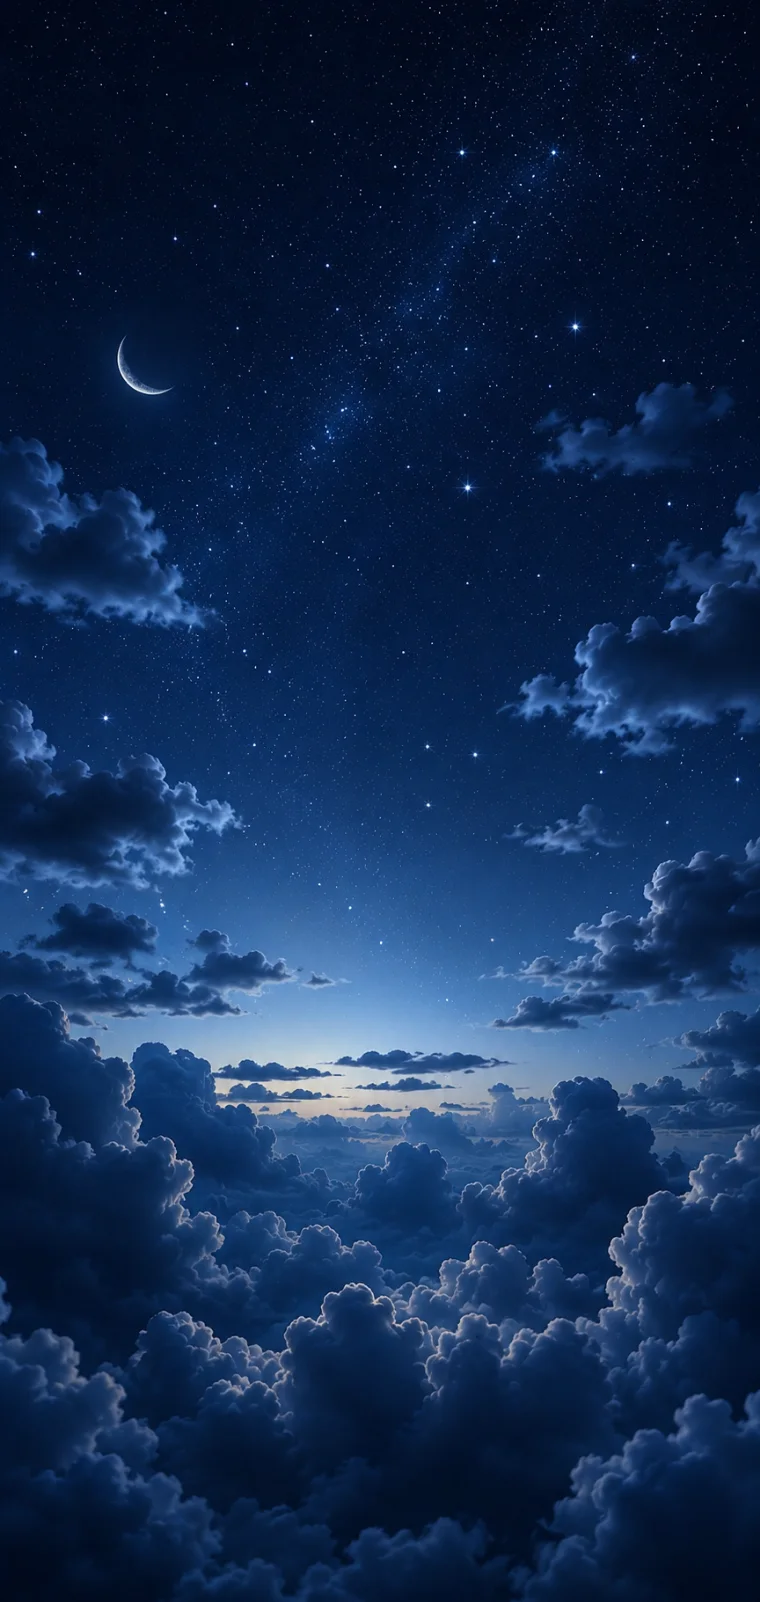
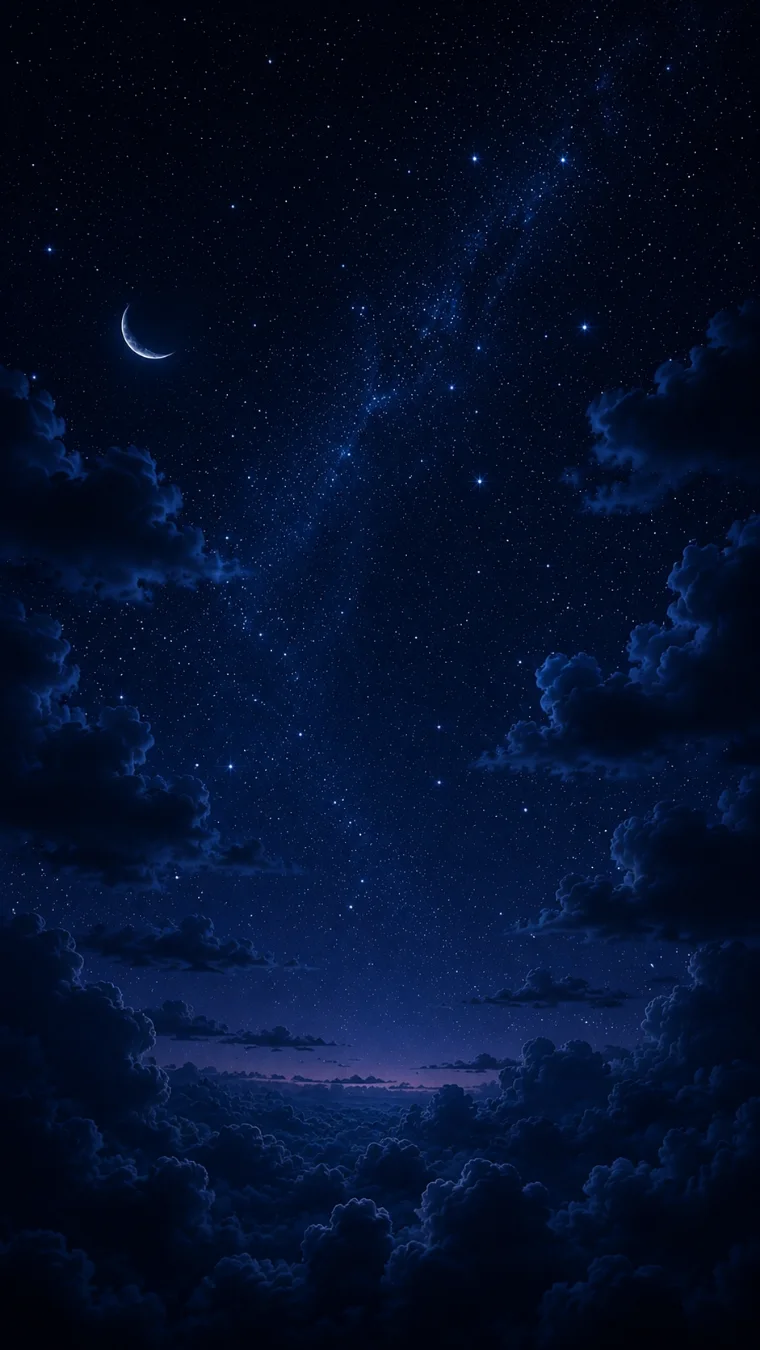
Céu em 8 faixas: fecha os buracos de 5 a 7 horas sem troca
Com 5 faixas sobravam saltos grandes em que o céu não mudava nada: o dia
segurava 7 horas seguidas, madrugada e noite 5 cada. As três artes novas
entram exatamente nesses buracos.

  00–04  madrugada       noite profunda, lua crescente, Via Láctea  (nova)
  04–06  pré-amanhecer   lua + o primeiro clarão no horizonte
  06–08  amanhecer       sol despontando, pastel                     (nova)
  08–11  manhã           lavanda e pêssego
  11–17  dia             céu azul aberto
  17–19  entardecer      pôr do sol dourado
  19–21  anoitecer       vermelho e roxo dramático, estrelas         (nova)
  21–24  noite           crepúsculo roxo

A arte que era `madrugada` virou `pre-amanhecer`: ela tem a réstia de luz
no horizonte, que é pré-amanhecer e não noite fechada.

A escala da ARTE passa a ser independente da do gradiente V1 (`periodFor`,
5 períodos), que continua intocado. E `darkSky` passa a seguir a FAIXA DA
ARTE, não o relógio: às 7h o gradiente diz "manhã" enquanto o amanhecer já
está claro, e às 20h diz "noite" enquanto o anoitecer é escuro — era a
arte e o vidro dos cartões discordando.

Verificado hora a hora nas 16 bordas e miolos: cada faixa serve a arte
certa e o vidro certo.

Claude-Session: https://claude.ai/code/session_01BJM25tJAqQNE1gvk3FSNXP

diff --git a/src/components/app-mobile-shell.tsx b/src/components/app-mobile-shell.tsx
@@ -31,6 +31,9 @@ import skyDia from "@/assets/sky/dia.webp";
 import skyEntardecer from "@/assets/sky/entardecer.webp";
 import skyNoite from "@/assets/sky/noite.webp";
 import skyMadrugada from "@/assets/sky/madrugada.webp";
+import skyPreAmanhecer from "@/assets/sky/pre-amanhecer.webp";
+import skyAmanhecer from "@/assets/sky/amanhecer.webp";
+import skyAnoitecer from "@/assets/sky/anoitecer.webp";
 import { babyForWeek, retaFinalMensagem } from "@/lib/gestacao";
 import { hapticTap } from "@/lib/haptics";
 
@@ -597,14 +600,33 @@ function BabyOrb() {
 /** Tema do céu da home. V2 = arte por período; V1 = o gradiente original. */
 export type SkyThemeId = "v2" | "v1";
 
-/** Arte de fundo de cada momento do dia (tema V2). */
-const SKY_ART: Record<ReturnType<typeof periodFor>, string> = {
-  madrugada: skyMadrugada,
-  manha: skyManha,
-  dia: skyDia,
-  entardecer: skyEntardecer,
-  noite: skyNoite,
-};
+/**
+ * Arte de fundo por FAIXA DE HORA (tema V2).
+ *
+ * Escala própria, mais fina que a do gradiente V1 (`periodFor`, 5 períodos):
+ * com 5 faixas sobravam saltos de 5 a 7 horas em que o céu não mudava nada. As
+ * oito faixas cobrem as transições que a paciente realmente percebe — o
+ * primeiro clarão, o sol nascendo, o céu virando depois do pôr do sol.
+ *
+ * `dark` acompanha a ARTE, não o relógio: o amanhecer é claro apesar de cedo, e
+ * o anoitecer é escuro apesar de ainda não ser noite fechada. É esse campo que
+ * decide se os cartões usam vidro claro ou escuro.
+ */
+const SKY_SLOTS: { from: number; to: number; nome: string; src: string; dark: boolean }[] = [
+  { from: 0, to: 4, nome: "madrugada", src: skyMadrugada, dark: true },
+  { from: 4, to: 6, nome: "pré-amanhecer", src: skyPreAmanhecer, dark: true },
+  { from: 6, to: 8, nome: "amanhecer", src: skyAmanhecer, dark: false },
+  { from: 8, to: 11, nome: "manhã", src: skyManha, dark: false },
+  { from: 11, to: 17, nome: "dia", src: skyDia, dark: false },
+  { from: 17, to: 19, nome: "entardecer", src: skyEntardecer, dark: false },
+  { from: 19, to: 21, nome: "anoitecer", src: skyAnoitecer, dark: true },
+  { from: 21, to: 24, nome: "noite", src: skyNoite, dark: true },
+];
+
+function skySlotFor(hour: number) {
+  const h = Math.max(0, Math.min(23, hour));
+  return SKY_SLOTS.find((s) => h >= s.from && h < s.to) ?? SKY_SLOTS[SKY_SLOTS.length - 1];
+}
 
 export function AppHomeScreen({
   firstName,
@@ -663,15 +685,19 @@ export function AppHomeScreen({
   // Céu escuro (noite/madrugada) pede texto claro. O entardecer TERMINA claro
   // na base do card (oklch ~0.8) — texto branco ali ficava ilegível, então ele
   // conta como céu claro para o texto (auditoria de contraste).
-  const darkSky = period === "madrugada" || period === "noite";
+  const artTheme = skyTheme !== "v1";
+  // Com a arte quem manda no claro/escuro é a FAIXA da arte (8 faixas), não o
+  // período do gradiente (5): às 7h o gradiente ainda diz "manhã" enquanto o
+  // amanhecer já está claro, e às 20h diz "noite" enquanto o anoitecer é
+  // escuro. Sem arte, vale o período do gradiente.
+  const slot = skySlotFor(h);
+  const darkSky = artTheme ? slot.dark : period === "madrugada" || period === "noite";
 
   // Cores de texto adaptadas ao céu do momento
   const heroText = darkSky ? "text-white/95" : "text-foreground";
   const heroMuted = darkSky ? "text-white/65" : "text-muted-foreground";
   // Roxo no céu claro (o rosé da marca sumia sobre o pêssego do entardecer).
   const heroLabel = darkSky ? "text-white/60" : "text-violet-600";
-
-  const artTheme = skyTheme !== "v1";
 
   /* Vidro dos cartões. O conceito é um céu claro com cartões brancos; à noite
      o céu escurece e o mesmo branco cegaria — então o vidro inverte e o texto
@@ -722,7 +748,7 @@ export function AppHomeScreen({
           <div
             aria-hidden
             className="dc-sky-breathe pointer-events-none absolute inset-0 bg-cover bg-center"
-            style={{ backgroundImage: `url(${SKY_ART[period]})` }}
+            style={{ backgroundImage: `url(${slot.src})` }}
           />
         )}
 
